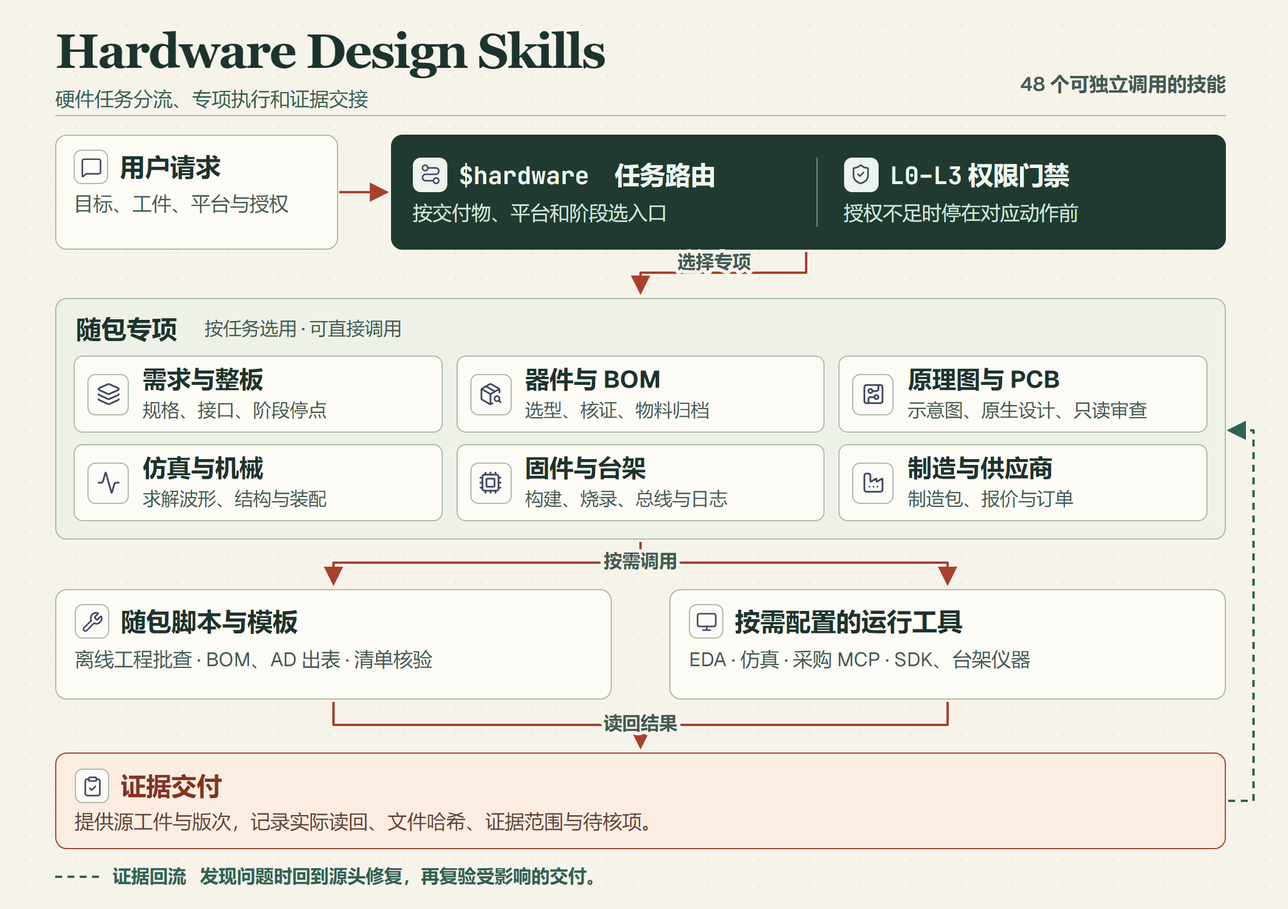
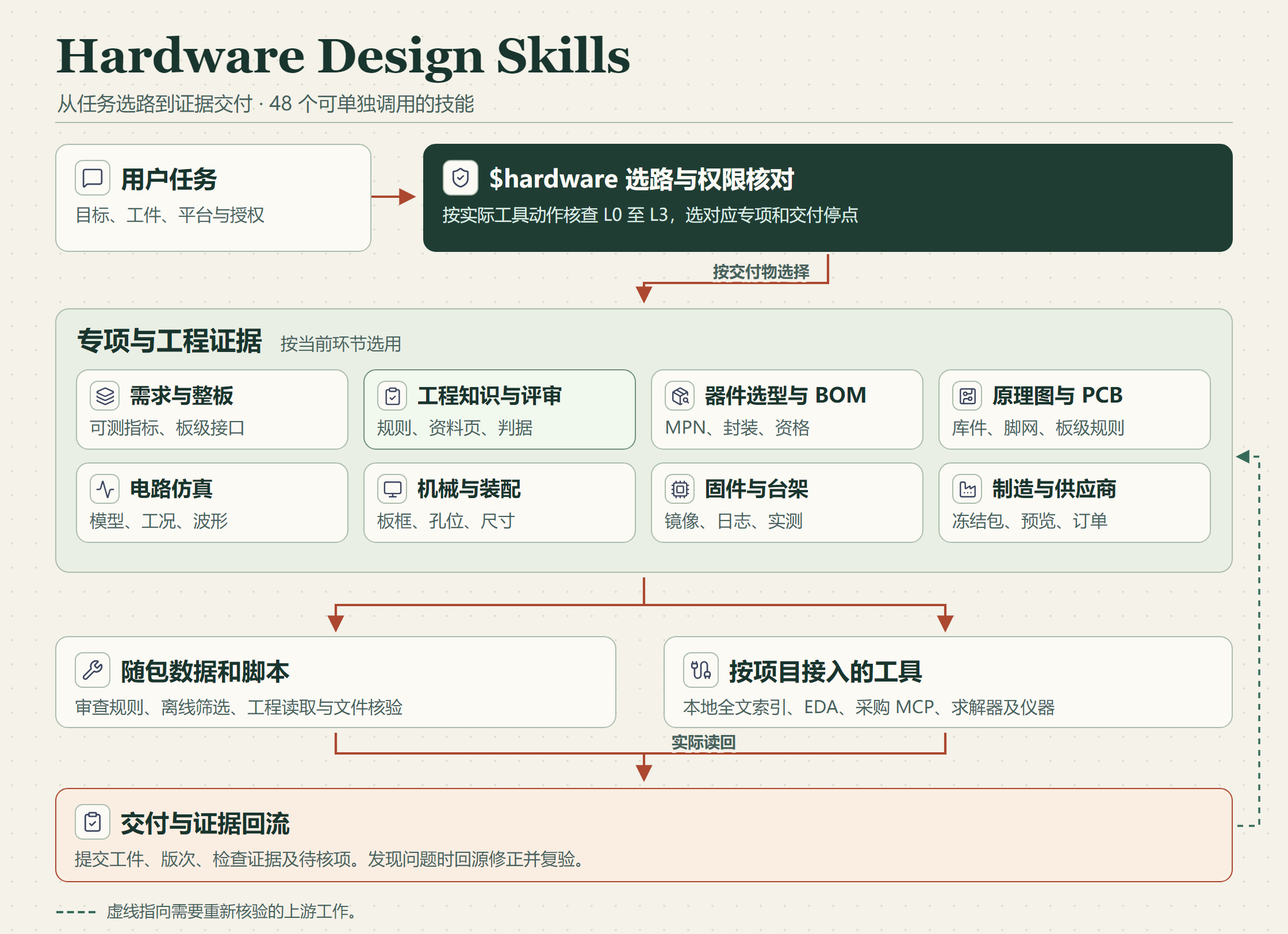
重写使用说明并补全硬件模块架构图

Changed region(s): [[0.0312, 0.031, 0.9688, 0.8373], [0.0625, 0.8373, 0.9375, 0.9924]]

diff --git a/README.md b/README.md
@@ -1,127 +1,102 @@
 # Hardware Design Skills
 
-**在 Codex 里画电路图、查器件、审查 EDA 工程，或从整板需求推进到制造和台架验证。** 本仓库随包提供 **48 个可单独调用的技能**，包括对应的脚本、模板和参考资料。用 `$hardware` 让助手按任务选择入口，也可以直接调用专项。
+在 Codex 里查器件、画电路图、审查 PCB，或把一块板从需求推进到制造和台架验证。这个技能包包含 48 个可单独调用的技能。知道要用哪个专项时可以直接点名，需要按工件或交付物选入口时用 `$hardware`。
 
-[下载最新版](https://github.com/zhr1008/hardware-design-skills/releases/latest) · [架构图](#架构与分工) · [模块关系](#各模块怎么配合) · [安装](#安装) · [48 项技能索引](docs/skill-catalog.md)
+[下载安装](#安装) · [从一个任务开始](#在-codex-里怎么用) · [架构图](#架构与分工) · [模块手册](docs/architecture-guide.md) · [48 项技能索引](docs/skill-catalog.md)
 
 ## 在 Codex 里怎么用
 
-| 你可以这样问 | 这次任务会交付什么 |
+| 可以这样问 | 这次会交付什么 |
 | --- | --- |
-| 「用 `$hardware` 画一张 RC 低通示意图，给 SVG。」 | 用 Schemdraw 生成图和 Python 源。需要 EDA 可编辑原理图时，在请求中点明 Altium、EasyEDA Pro 或 KiCad。 |
-| 「只读核对这个保存的 Altium 工程，按页列出器件数量。」 | 批查保存版 `.PrjPcb` 的原理图、板卡和文件状态，报告缺失项。若任务需要未保存状态，再核对现场读取的许可。 |
-| 「在我提供的本地手册索引里核对数据速率，给原页出处。」 | 对照版次查正文，按需回读 OCR 页，记录物理页和印刷页。 |
-| 「审查这路 ADC 前端，先列适用规则和需要验证的条件。」 | 用随包规则查采样建立、回冲、参考源等相关项，结合器件型号和工作条件形成核验依据。 |
-| 「给这批 0402 电阻按阻值、精度和功率选料，保留原位号。」 | 先按完整硬条件离线分组，再按组查询。对最终候选核对原厂和渠道证据，工程选型表默认是可逐格复制的 HTML。 |
-| 「优先用我这份标准阻容索引找满足规格的料，缺项时再查公开来源。」 | 按明确料号、封装和规格筛本地记录，把字段齐全的匹配与待核实项分开。需要时核对国内商品页及原厂资料。 |
-| 「这份 BOM 只转档案 CSV，已有料号原样保留。」 | 按模板映射，在 CSV 读回后结束。 |
-| 「读这两份 KiCad 原生 ERC 和 DRC 报告，看看有没有关掉的检查和未连项。」 | 汇总每份报告的错误、警告、排除项、可见的禁用规则及覆盖信息。 |
-| 「投板前核对这版 BOM 与贴装坐标，TP1 不贴。」 | 检查缺贴、多贴、重复位号以及坐标、板面和角度字段，记录两份输入的哈希。 |
-| 「核对这个冻结制造包，列出缺件和哈希不符的文件。」 | 本地检查版次、清单、尺寸和 SHA-256，返回通过项与缺口。 |
-| 「用这份限值核对台架数据，标出超限和缺项。」 | 对照板号、硬件版次、固件哈希和单位，逐项给出限值判定。 |
+| 「用 `$hardware` 画一张 RC 低通示意图，给 SVG。」 | Schemdraw 源码和 SVG。需要可编辑的工程原理图时，写明 Altium、EasyEDA Pro 或 KiCad。 |
+| 「只读核对这份保存的 Altium 工程，按页列出器件数。」 | 工程成员、保存态的器件明细和无法解析的文件。若还需要未保存的编辑内容，再申请现场读取。 |
+| 「审这路 ADC 前端，把需要验证的条件和资料页写出来。」 | 与器件和工况对应的规则、文档版次、物理页或印刷页，以及待计算或待测的项目。 |
+| 「优先在我给的标准阻容索引里找料，缺项再查公开来源。」 | 符合规格的候选、缺证据的字段，以及适用的商品页或原厂资料。为工程确认选用时，可从已核对数据生成 AD 选型表。 |
+| 「这份 BOM 只转档案 CSV，已有料号原样保留。」 | 按指定模板生成 CSV，读回核对列、位号、数量和料号。 |
+| 「看这份 KiCad DRC JSON，把未连接项、禁用规则和覆盖缺口列出来。」 | 已有报告的只读汇总，附报告来源、版本和 SHA-256。 |
+| 「投板前核对这版 BOM 和贴装坐标，TP1 不贴。」 | 缺贴、多贴、重复位号和坐标字段问题，以及两份输入的 SHA-256。 |
+| 「用这份限值判定台架结果，标出超限、缺项和单位错误。」 | 对照板号、硬件版次、固件哈希和单位的逐项核对结果。 |
 
-单项任务从对应入口开始。查一个料号、确认一个字段或出一张说明图，可以在目标产物交付后结束。跨原理图、PCB、固件或制造的任务才需要逐阶段交接。
+单项任务交付所问结果即结束。整板任务才需要把接口、版本和验证结果交给后续专项。
 
 ## 架构与分工
 
-![硬件技能包架构图。用户请求经硬件路由和权限检查进入专项，由随包脚本或独立运行工具执行，结果经读回后交付。](docs/architecture/hardware-design-skills.png)
+![硬件技能包总图。任务经过选路与权限检查，专项使用规则、已有工件和所需工具，读回证据并交付。](docs/architecture/hardware-design-skills.png)
 
-1. **路由和权限。** [`hardware`](skills/hardware/SKILL.md) 根据目标、工件、平台、实际参数和交付要求选择入口。它可独立使用，也可接在宿主的全局路由后。
-2. **专项技能。** 各专项定义要核的事实、执行顺序和验收证据。跨模块的设计按需调用几个专项，每个专项承接对应阶段。
-3. **运行工具。** 随包脚本处理确定性的离线读取、分组、转换和校验。外部 MCP、EDA、仿真器和设备工具承担实际在线查询、原生操作或现场取证，由使用者按需配置。
-4. **工程回读。** 结果记录工件版次、证据来源、实际通过的检查、缺项和授权停点。发现问题时，回到拥有权威源的专项修复，并重验依赖该源的结果。
+`$hardware` 根据目标、已有工件、EDA 平台和授权选入口。`hardware-solution` 在整板项目里协调供电、通信、机械和固件接口。`manage-pcba-program` 管理 PCBA 阶段、工件版本、放行结果和变更后的重验范围。需要做多专项的冻结判定或归因时，由 `hardware-design-review` 汇总各项工程证据。
 
-图标来自 [Lucide](https://lucide.dev/)。平台分流和交接规则见 [硬件路由矩阵](skills/hardware/references/route-matrix.md)。
+### 各模块怎么配合
 
-## 各模块怎么配合
-
-| 模块 | 主要技能与职责 | 输出及下一步 |
-| --- | --- | --- |
-| **需求、参考工程与整板协调** | [`plan-electronic-product`](skills/plan-electronic-product/SKILL.md) 把目标变成可测要求。[`hardware-project-library`](skills/hardware-project-library/SKILL.md) 盘点参考工程、版本和可复用范围。[`hardware-solution`](skills/hardware-solution/SKILL.md) 在整板项目中协调供电、通信、机械和固件接口。 | 把需求、接口和工况交给电路、PCB、固件与测试。[`manage-pcba-program`](skills/manage-pcba-program/SKILL.md) 按任务记录 PCBA 阶段、工件哈希、放行证据和变更失效。 |
-| **器件资料、选型和 BOM** | [`ee-datasheet-master`](skills/ee-datasheet-master/SKILL.md) 查原厂资料。[`component-sourcing`](skills/component-sourcing/SKILL.md) 查精确身份、封装、渠道和候选，按条件分组并复用已有结果。[`qualify-pcba-sourcing`](skills/qualify-pcba-sourcing/SKILL.md) 按位号核对脚位、封装、适用工况和供货风险。 | 把原厂依据、完整订购号和选用证据交给库与 BOM。[`bom-material-archive`](skills/bom-material-archive/SKILL.md) 负责模板转换和 CSV 读回，可单独完成。 |
-| **电路、原理图和工程库** | [`draw-schemdraw-circuit`](skills/draw-schemdraw-circuit/SKILL.md) 画说明图。[`design-and-review-circuit`](skills/design-and-review-circuit/SKILL.md) 做电气设计或审查。[`schematic-analyzer`](skills/schematic-analyzer/SKILL.md) 提取支持的连接证据。[`schematic-humanizer`](skills/schematic-humanizer/SKILL.md) 整理阅读顺序并复核脚网。 | 示意图可单独交付。工程任务把原理图、关键网约束和库映射交给板级实现。 |
-| **EDA、PCB 和综合评审** | [`altium-library`](skills/altium-library/SKILL.md) 处理库证据，[`altium-schematic-review`](skills/altium-schematic-review/SKILL.md) 和 [`altium-pcb-review`](skills/altium-pcb-review/SKILL.md) 审查对应工件。[`easyeda-agent`](skills/easyeda-agent/SKILL.md) 对接 EasyEDA Pro。[`pcb-layout-review`](skills/pcb-layout-review/SKILL.md) 处理板级布局与布线证据。 | 按实际工件回读保存态、板层、规则、关键网和机械约束。跨电路、BOM、PCB 或实测的放行与问题定位交 [`hardware-design-review`](skills/hardware-design-review/SKILL.md)。 |
-| **仿真、机械和板壳配合** | 仿真按任务选 SPICE、Multisim 或指定求解器，将模型、工况与量测绑定到版本。[`lab-hardware-cad`](skills/lab-hardware-cad/SKILL.md) 面向实验夹具和机械接口的参数化 CAD。 | 仿真交波形和量测指标，回到电路专项修正。机械交尺寸和适用的模型或制造文件，板框、开口和安装孔与 PCB 一起复核。 |
-| **固件、构建和台架** | [`embedded-firmware-design`](skills/embedded-firmware-design/SKILL.md) 把引脚、电平和时序约束落实到驱动和应用。[`embed-ai-tool`](skills/embed-ai-tool/SKILL.md) 帮助选择工具链。[`workflow`](skills/workflow/SKILL.md) 输出离线步骤预览，各构建、烧录和调试专项执行具体动作。 | 构建交镜像、版本和哈希。台架专项按许可采集串口、CAN、Modbus、逻辑分析仪和 VISA 证据，反馈给电路、固件或综合评审。 |
-| **制造包和供应商** | [`release-pcba-fabrication`](skills/release-pcba-fabrication/SKILL.md) 整理和复核本地制包。[`operate-jlcpcb-order`](skills/operate-jlcpcb-order/SKILL.md) 对应 PCB/PCBA 供应商流程。[`fictiv`](skills/fictiv/SKILL.md) 对应机械件的报价和制造。 | 冻结包交验收结果和缺项。按范围分别处理预览、上传、报价、下单与付款。预览发现问题时回到库、板或导出步骤重新核验。 |
-
-[48 项技能索引](docs/skill-catalog.md) 逐项列出了每个技能的入口、用途和交付停点。
-
-### 跨阶段交接的最小证据
-
-| 交给谁 | 随工件交接什么 |
+| 模块 | 接收什么，交付什么 |
 | --- | --- |
-| 器件 → 库、原理图、BOM | 完整订购 MPN、原厂资料版次和定位页、脚位到 Pad 的映射、关键工况、封装和渠道料号。 |
-| 原理图 → PCB | 同版工程和保存状态、网表或离线证据、适用 ERC 结论、关键网和电气约束、叠层与机械限制。 |
-| PCB 接口 → 固件与台架 | 板号和接口版次、引脚与电平、复位和时序约定、SDK 与构建配置、镜像摘要和测量时基。 |
-| 冻结板 → 制造包和供应商 | Gerber、钻孔、BOM、CPL、装配资料、工艺和坐标约定、冻结版次及文件哈希。 |
+| [任务路由与权限](docs/architecture-guide.md#任务路由与权限) | 根据工件状态和真实工具动作选入口。执行前检查许可，在用户要求的交付点停止。 |
+| [需求与整板协调](docs/architecture-guide.md#需求与整板协调) | 把目标和参考工程转成可测要求与接口约束，交电路、PCB、固件和测试。 |
+| [工程知识与综合评审](docs/architecture-guide.md#工程知识与综合评审) | 查适用规则和资料页，把判据与工程证据对齐，给出通过、待验证或阻塞项。 |
+| [器件选型与 BOM](docs/architecture-guide.md#器件选型与-bom) | 用规格、订购 MPN 和渠道编号核对器件。把原厂脚位、封装和资格结果交给库、BOM 或制造。 |
+| [原理图、工程库与 PCB](docs/architecture-guide.md#原理图工程库与-pcb) | 按 Altium、EasyEDA Pro 或 KiCad 选择入口。交付可编辑工件，或给现有工件的只读检查结果。 |
+| [电路仿真](docs/architecture-guide.md#电路仿真) | 对指定模型、输入和工况运行求解，给波形及量测。结果回到电路设计或评审。 |
+| [机械与装配](docs/architecture-guide.md#机械与装配) | 用板框、孔位和结构约束做板壳匹配，交 CAD 和尺寸证据，回传 PCB 修改项。 |
+| [固件与台架](docs/architecture-guide.md#固件与台架) | 接口约定进入固件构建，镜像绑定板号和测量结果。故障回到电路、固件或配置的源头排查。 |
+| [制造包与供应商](docs/architecture-guide.md#制造包与供应商) | 冻结同版 Gerber、钻孔、BOM、CPL 及清单。按具体授权处理外部预览、报价和订单。 |
 
-例如，贴装预览显示器件方向不符时，先保留预览证据，再检查封装方向、PCB 放置与 CPL 导出。修正权威源后，把受影响的旧装配结论标为失效，重新导出并核对新版预览。
+模块图给出每一步的输入、分支和交接点。按具体技能查职责时，可以直接打开 [48 项技能索引](docs/skill-catalog.md)。图标来自 [Lucide](https://lucide.dev/)。
 
-### 从传感器采集板到可交接的设计
+### 以一块传感器采集板为例
 
-1. **定义输入。** 需求专项明确供电、采集误差、通信接口和板框。整板协调把这些条件写入接口记录。
-2. **落实电路。** 器件专项核对候选型号和原厂脚位。电路专项建立连接和关键网约束，机械专项回传孔位及外壳尺寸。确有仿真目标时，把模型和波形用同一电路版次对应起来。
-3. **并行交接。** PCB 按网表、叠层和尺寸约束实现。固件按同一份引脚和电平约定构建。台架用板号和镜像摘要绑定波形、总线或启动日志。
-4. **按目标结束。** 用户只要设计评审时，交工件和问题清单。要求出包时，依据冻结版生成制造文件和哈希清单。供应商动作再按实际任务和授权范围执行。
+先定采集范围、误差、供电与通信接口。器件专项用原厂资料核对采样前端和主控，留下完整 MPN、封装与脚位依据。电路专项输出原理图和关键网约束。PCB 与固件使用同一份板级接口约定，机械模块同时回传板框、孔位和连接器装配空间。
+
+首板联调时，用板号、硬件版次和固件哈希绑定启动日志与测量结果。测量异常先确认是供电、前端、采样配置还是测试条件的问题，再回到相应专项。出包时绑定 PCB、BOM、CPL 和装配证据。如果贴装预览的方向有误，从库件、板上的放置或 CPL 导出查起。修正后重新生成并核对受影响的工件。
 
 ## 固定脚本与交付终点
 
-从仓库根目录运行：
+从仓库根目录运行。
 
 ```powershell
 python -X utf8 skills/hardware/scripts/hardware_tool.py list --json
 python -X utf8 skills/hardware/scripts/hardware_tool.py --plan bom-archive bom.csv --output out/archive.csv
+python -X utf8 skills/hardware/scripts/knowledge.py rules --domain PCB与EMC --summary
 ```
 
-| 子命令 | 做到哪里 |
+| 命令 | 输出 |
 | --- | --- |
-| `ad-saved` | 结构化读取保存的 `.PrjPcb`、`.SchDoc` 或 `.PcbDoc`，用 `altium-monkey` 解析。 |
-| `bom-archive` | 省略 `--output` 时给预检，有输出路径时生成档案 CSV 并读回。 |
-| `selection-export` | 按已核对的 JSON 生成 AD HTML，Excel 按需生成。后补 Excel 可用 `--xlsx-only`。 |
-| `sourcing-lock-check` | 检查资格表的字段、数量、费用和已记录证据的时效。当前库存与报价由相应渠道工具取得。 |
-| `kicad-report-check` | 读取现有 KiCad 9/10 ERC 或 DRC JSON，区分可见违规、排除项、禁用规则和报告覆盖。 |
-| `assembly-check` | 对照同版 BOM 与 CPL，核对位号、DNP、板面、坐标格式及单位声明。 |
-| `release-check` | 核对本地冻结包版本、清单与哈希，并报告缺失、变化或越界项目。 |
-| `bench-check` | 按指定限值校验本地台架测量，并区分超限、身份或单位错误与缺项。 |
+| `ad-saved` | 读取保存的 `.PrjPcb`、`.SchDoc` 或 `.PcbDoc`，给工程成员或对象数据。需要 `altium-monkey`。 |
+| `bom-archive` | 预检 BOM 及映射。指定 `--output` 时生成档案 CSV 并读回。 |
+| `selection-export` | 从已核对 JSON 生成 AD HTML 或按需生成 Excel。补 Excel 可用 `--xlsx-only`。 |
+| `sourcing-lock-check` | 核对资格表字段、数量、费用及已记录证据的时效。 |
+| `kicad-report-check` | 读取现有 KiCad 9/10 ERC 或 DRC JSON，列出违规、排除、禁用规则与覆盖范围。 |
+| `assembly-check` | 对照同版 BOM 与 CPL，核对位号、DNP、板面、坐标格式和单位。 |
+| `release-check` | 校验冻结制造包清单、版次、尺寸及 SHA-256。 |
+| `bench-check` | 按输入限值核验台架测量，标出超限、记录无效与缺项。 |
 
-器件批查单独提供 `batch_lookup.py`、`plan_selection_groups.py` 和固定出表脚本。根路由按任务选择入口，已有报告可以只补缺项。固件预览可查看计划中已给定和仍需补齐的信息。 [固定命令参数](skills/hardware/references/local-tools.md) · [器件批查与续跑](skills/component-sourcing/references/batch-lookup.md) · [器件与 BOM 分级](skills/component-sourcing/references/selection-depth.md)
-
-已有证据时，可独立运行每一项检查。从设计推进到制造时，先读 ERC/DRC 与工程状态，再核对 BOM/CPL 和独立 CAM 证据，最后校验冻结包。制成样机后，把测量绑到实际板号与固件，再按限值核对。需要原生导出、独立 CAM、虚拟固件回归或现场测试时，再按阶段选择已有外部工具。 [可选工具与接入点](docs/backends.md)
-
-指定本地 OCR 数据目录后，`ocr_books.py` 可按书查看覆盖、查同页词和读回单页。`pack_mineru_book.py` 可将已有 MinerU Middle JSON 转为索引并按原件版本补页。工程资料留在使用者管理的数据目录。 [逐页 OCR 用法](skills/hardware/references/ocr-books.md)
-
-`knowledge.py rules` 查询随包的 96 条审查规则和来源页码，覆盖 PCB/EMC、模拟、电源、采样、接口、标准、无源器件、验证与热设计。带 `--library` 可接入本机全文索引，查资料、搜索章节及读取原页文字。公开包内的规则与书目可直接离线查询。 [规则与证据流程](skills/hardware/references/design-review-basis.md) · [知识库用法](skills/hardware/references/engineering-knowledge.md)
-
-指定本地标准阻容索引后，`query_passive_index.py` 可按 C 号、完整料号或结构化规格筛选。查当前供货、更新证据或核对 CAD 库件时，再走相应入口。 [器件查询与回退](skills/component-sourcing/references/sourcing-queries.md)
+`knowledge.py` 可离线查随包的 96 条审查规则。带 `--library` 时可读用户的全文索引，查题录、正文和页标。`ocr_books.py` 用于已整理的逐页 OCR，`pack_mineru_book.py` 可从现有 Middle JSON 建索引。器件专项另有批量查料、等条件分组和本地阻容筛选脚本。 [固定命令用法](skills/hardware/references/local-tools.md) · [知识库用法](skills/hardware/references/engineering-knowledge.md) · [器件批查与续跑](skills/component-sourcing/references/batch-lookup.md)
 
 ## 权限怎么划分
 
 | 级别 | 典型动作 |
 | --- | --- |
-| **L0 离线读取** | 读保存版工程、库、报告和已有数据。 |
-| **L1 定向只读** | 读已授权的活动文档或查公开料价。保存版证据不足、需要转现场时先申请。 |
-| **L2 有界本地动作** | 指定副本写入、生成本地工件、构建、后台仿真，以及保护源文件的非模态编译。 |
-| **L3 原工程、前台、设备与外发** | 原工程写入、模态 DRC、桌面操作、烧录、主动发帧、仪器输出、文件上传、下单和付款。按具体动作先核授权。 |
+| L0 离线读取 | 读保存版工程、库、报告和本地测量数据。 |
+| L1 定向只读 | 读已获准的活动文档，或查询公开料价。审查保存态时，转到活动工程需要单独核对许可。 |
+| L2 有界本地操作 | 写指定副本、生成本地工件、构建、后台仿真，或不保存设计源的非模态编译。 |
+| L3 原工程、前台、设备与外发 | 原工程写入、模态 DRC、桌面操作、烧录、主动发帧、仪器输出、上传、下单和付款。 |
 
-等级由实际工具和参数决定。Altium 的离线读、现场桥接和界面操作分别核对权限。模型及工程文件默认在本机处理，需要外发时单独核准接收方和范围。 [权限门禁](skills/hardware/references/permission-gates.md)
+一次调用的等级取其中影响最大的动作。Altium 从离线读取升级到现场桥接，再升级到桌面操作时，分别核对授权。工程和 3D 文件默认留在本机，外发需要针对文件和接收方批准。 [权限细则](skills/hardware/references/permission-gates.md)
 
 ## 安装
 
-下载并解压 [最新技能包](https://github.com/zhr1008/hardware-design-skills/releases/latest)，或检出仓库。用 Python 3.11 或更新版本，在仓库根目录运行：
+下载并解压 [最新技能包](https://github.com/zhr1008/hardware-design-skills/releases/latest)，或检出仓库。用 Python 3.11 或更新版本在仓库根目录运行。
 
 ```powershell
 python -X utf8 scripts/install_skills.py --dry-run
 python -X utf8 scripts/install_skills.py
 ```
 
-默认目标为 `~/.agents/skills`，用 `--target` 可指定客户端实际读取的技能目录。也可以手动复制 `skills/` 下的平级技能目录。预检会标出同名冲突并保留已有内容，内容相同的技能会跳过。重新打开技能会话后可用 `$hardware`。
+默认安装到 `~/.agents/skills`。`--target` 可指定客户端实际读取的技能目录，也可以手动复制 `skills/` 下的平级目录。预检会列出同名冲突，已有内容相同的技能会跳过。重新打开技能会话后可用 `$hardware`。
 
-安装包含技能、脚本和模板。Schemdraw、Altium 文件解析器、商用 EDA、仿真软件、连接器和设备运行环境按实际任务配置。仓库内的 `component-sourcing` 是随包技能，目录查询和供应商接口由独立的 Component Sourcing MCP 提供。 [运行依赖](docs/backends.md) · [Component Sourcing MCP](https://github.com/zhr1008/component-sourcing-mcp)
+技能、脚本和模板随包安装。Altium、EasyEDA、KiCad、SPICE、固件工具链和设备运行环境按项目配置。在线查料可接独立的 Component Sourcing MCP。自有知识、OCR 和工程文件通过使用者指定的本机路径接入。 [运行依赖](docs/backends.md) · [Component Sourcing MCP](https://github.com/zhr1008/component-sourcing-mcp)
 
 ## 验证与许可
 
-仓库的 Windows 和 Linux 检查覆盖技能元数据、相对链接、Python 语法、离线安装、固定 CLI 和发布内容检查。仓库校验的 YAML 依赖仅供开发及 CI 使用。原生 EDA、供应商、终端设备和实际制造按本次运行留存证据。可运行以下命令。
+Windows 和 Linux CI 检查技能元数据、相对链接、Python 语法、离线安装、固定工具和可发布内容。项目的原生 EDA、供应商和实体台架结果以实际工程的运行记录为准。
 
 ```powershell
 python -X utf8 -m pip install -r requirements-dev.txt
@@ -130,4 +105,4 @@ python -X utf8 scripts/check_publication.py --tree HEAD
 python -X utf8 -m unittest discover -s tests
 ```
 
-自有内容采用 [MIT](LICENSE)。随包第三方文件保留各自版权与许可。 [来源与许可](THIRD_PARTY_NOTICES.md)
+自有内容采用 [MIT](LICENSE)。随包第三方文件保留各自版权和许可。 [来源与许可](THIRD_PARTY_NOTICES.md)

diff --git a/docs/architecture-guide.md b/docs/architecture-guide.md
@@ -1,0 +1,156 @@
+# 硬件技能包模块手册
+
+[总图](../README.md#架构与分工) · [技能索引](skill-catalog.md) · [可选工具](backends.md)
+
+从任务当前所在的环节开始。例如，有一份保存的 PCB 和 DRC 报告时，直接读板和报告即可。跨阶段时，把交付物和能核对它的版本、工况及出处一同交给接手专项。
+
+[路由](#任务路由与权限) · [需求](#需求与整板协调) · [知识库](#工程知识与综合评审) · [选料](#器件选型与-bom) · [EDA](#原理图工程库与-pcb) · [仿真](#电路仿真) · [机械](#机械与装配) · [固件与台架](#固件与台架) · [制包](#制造包与供应商) · [交接证据](#跨模块交接)
+
+## 任务路由与权限
+
+```mermaid
+flowchart TD
+  A["用户要求<br/>目标、工件、平台、交付物"] --> B["$hardware<br/>确认工程状态并选专项"]
+  B --> C{"本次动作在授权内？"}
+  C -->|"是"| D["运行选中的脚本或工具"]
+  C -->|"需要新许可"| E["先交已获得的证据<br/>说明拟增动作与影响"]
+  E -->|"用户批准该动作"| D
+  D --> F["读回结果<br/>确认达到当前交付点"]
+```
+
+同名技能先核对用户指定的来源和项目约定。然后根据工件和目标选择入口。例如，有保存的 Altium 工程且只要求审查时，先读取离线文件。离线找不到编译后的网络或未保存状态时，说明缺哪项，再申请该工程的只读桥接。用户明确要求查看当前打开的工程时，这个请求已覆盖相应的 L1 定向读取。进一步打开桌面界面、跑模态检查或修改工件时，按实际动作单独核对许可。
+
+脚本用于格式和输入明确的重复工作。现场桥接、供应商接口、EDA 程序和仪器依赖本机配置。需要前台操作或外发时，具体到窗口、工件、命令或接收方。工具读回可能同时出现结果和受限项，分别记入交付。 [权限细则](../skills/hardware/references/permission-gates.md) · [路由矩阵](../skills/hardware/references/route-matrix.md)
+
+## 需求与整板协调
+
+```mermaid
+flowchart TD
+  A["用途、环境和验收条件"] --> B["需求与参考工程<br/>明确可测指标和可复用范围"]
+  B --> C["整板接口约定<br/>供电、引脚、电平、时序、尺寸"]
+  C --> D["电路、PCB、固件和台架"]
+  D --> E["PCBA 阶段记录<br/>工件版次、哈希与验收证据"]
+  E -. "接口或版次改变" .-> C
+```
+
+`plan-electronic-product` 明确可测的目标和工况。`hardware-project-library` 盘点已有工件、版次和可用的参考证据。例如，一套参考板可提供连接器尺寸和供电拓扑，实际项目所需的电流、保护和 EMC 条件仍要比较。系统设计由 `hardware-solution` 协调，涉及引脚、复位和电平的决定写进同一份板级接口约定。
+
+`manage-pcba-program` 用工件版次和哈希记录当前阶段、放行状态及未关闭问题。接口变更时，标出原理图、PCB、BOM、固件与测试中哪些旧结论需要复核。综合结论可以交 `hardware-design-review`。 [整板方案](../skills/hardware-solution/SKILL.md) · [PCBA 阶段管理](../skills/manage-pcba-program/SKILL.md)
+
+## 工程知识与综合评审
+
+```mermaid
+flowchart TD
+  A["项目对象与工况<br/>器件、拓扑、要求"] --> B["96 条审查规则<br/>按领域或规则编号筛选"]
+  B --> C["资料版次与页码<br/>本机索引或原件"]
+  C --> D["采用判据<br/>对应实际位号、网络或布局区域"]
+  D --> E["对照实际工程证据<br/>ERC、DRC、仿真、实测"]
+  E --> F["记录判定和缺项"]
+```
+
+例如核对 ADC 前端，先按采样速率、信号带宽和驱动拓扑选采样建立、回冲和基准误差等规则。回查适用的原厂手册及来源页，把规则中的条件换成当前电路的器件、负载与测试工况。判断依据要写清文档版次、PDF 物理页和已确认的印刷页。
+
+规则与书目随包提供，`knowledge.py rules` 可以直接查询。已有本机全文索引时用 `--library` 接入。扫描件可以通过逐页 OCR 找页，公式、图表及单位以原页核对。综合评审汇集各专项的证据，给出本版可关闭的问题和仍待取证的项目。 [设计审查规则](../skills/hardware/references/design-review-basis.md) · [工程知识库用法](../skills/hardware/references/engineering-knowledge.md)
+
+## 器件选型与 BOM
+
+```mermaid
+flowchart TD
+  A["精确 C 号、完整 MPN<br/>或电气与封装要求"] --> B["复用已核验证据<br/>按需筛本机阻容索引"]
+  B --> C{"候选和证据足够？"}
+  C -->|"有缺项"| D["查对应商品页或原厂资料<br/>实时采购数据按需查询"]
+  C -->|"足够"| E["核对身份、封装与用途"]
+  D --> E
+  E --> F["按任务交付<br/>定向答复、AD 选型表或 BOM"]
+```
+
+`ee-datasheet-master` 查原厂数据。`component-sourcing` 对照完整订购 MPN、渠道 C 号、封装与使用条件。标准阻容索引可先筛候选。同规格的位号可以先分组，按组查询并保留原位号。索引只覆盖已有证据，缺失的规格和实时库存、数量价由对应渠道核实。
+
+查资料或价格可以只答所问字段。确定工程选用时，可用同一份经核对的 JSON 导出 AD HTML，Excel 按需生成。物料档案转换交给 `bom-material-archive`，读回 CSV 后结束。制造前逐位号核资格时，用 `qualify-pcba-sourcing` 交付 `sourcing-lock.csv`，把替代料和封装风险交给电路、库和制造。 [查料与回退](../skills/component-sourcing/references/sourcing-queries.md) · [AD 表交付](../skills/component-sourcing/references/ad-selection-export.md)
+
+## 原理图、工程库与 PCB
+
+```mermaid
+flowchart TD
+  A{"需要哪种产物？"} -->|"示意图"| B["Schemdraw<br/>源码与 SVG"]
+  A -->|"原生工件或审查"| C["核对平台、工程与保存状态"]
+  C --> D["选 Altium、EasyEDA Pro 或 KiCad 入口"]
+  D --> E["核对符号、焊盘、脚网与约束"]
+  E --> F["同版 PCB 或检查记录<br/>交布局、固件或制包"]
+```
+
+画说明电路时用 `draw-schemdraw-circuit`。做可编辑的工程原理图时，由 `design-and-review-circuit` 按选定 EDA 执行。已有工程先核实文件类型、版本和保存状态。保存态的 Altium 原理图、PCB 与库分别走相应离线入口。EasyEDA Pro 对照其专业版工程和适配器。KiCad 有现成 ERC/DRC JSON 时用 `kicad-report-check` 读回，再根据具体任务决定是否需要运行原生检查。
+
+原理图交给 PCB 时带同版工程、关键网和布局约束，器件库证据须能解释引脚到焊盘的映射。布局收尾时比较实际连通、板层、几何和规则证据。需要跨平台迁移时，对照目标原生文件重新核脚网、封装和板级约束。 [EDA 平台分流](../skills/hardware/references/route-matrix.md#按工程平台选执行入口) · [PCB 布局与审查](../skills/pcb-layout-review/SKILL.md)
+
+## 电路仿真
+
+```mermaid
+flowchart TD
+  A["电路或网表、器件模型<br/>指定工况及量测目标"] --> B["核对求解器支持范围"]
+  B --> C["本机仿真<br/>使用已指定的运行入口"]
+  C --> D["保存波形、输入版次与量测条件"]
+  D --> E["与判据比较<br/>提交电路设计或评审"]
+  E -. "参数或模型待修" .-> A
+```
+
+电路专项先给定要回答的问题，例如稳态输出、启动瞬态或温度扫描。仿真按项目选择 SPICE、Multisim 或已配置的求解器。模型版本、网表、输入条件、量测定义和运行日志随输出一起保留。危险副作用按实际入口判断，例如桌面弹窗或改写原文件的工具操作。
+
+仿真输出要对应所依据的版本和工况。工程中需要实测的指标，留给相应台架验证。例如仿真显示跨温度的建立时间风险，可将采样配置、输入阶跃、负载和量测窗口交给台架复测。 [仿真与工具入口](backends.md) · [SPICE 权限](../skills/hardware/references/permission-gates.md#spice-与-solidworks-前台和外发许可)
+
+## 机械与装配
+
+```mermaid
+flowchart TD
+  A["板框、孔位、器件高度与工艺"] --> B["确定机械基准与装配空间"]
+  B --> C["本机 CAD<br/>夹具、外壳或装配模型"]
+  C --> D["干涉、尺寸和可达性核对"]
+  D --> E["交尺寸、STEP 或设计源"]
+  E -. "孔位、边界或开口变更" .-> A
+```
+
+先让板级与机械使用同一原点、单位和版本。需要核对的尺寸包括板边与安装孔、连接器的插拔空间、器件高度和结构公差。`lab-hardware-cad` 可承接实验夹具、支架和机械接口。可用的本机 CAD 依据项目配置选择，发给 PCB 的应是具体尺寸或约束。
+
+板框或安装孔变化时，同步更新电路板上的机械约束和装配检查。交付对应的设计源、尺寸证据和适用的 STEP 等格式。原始 3D 文件和几何数据优先在本机使用，发给外部供应商或服务时按本次动作与接收方申请。 [机械专项](../skills/lab-hardware-cad/SKILL.md) · [CAD 与外发许可](../skills/hardware/references/permission-gates.md#spice-与-solidworks-前台和外发许可)
+
+## 固件与台架
+
+```mermaid
+flowchart TD
+  A["板级接口、MCU 与 SDK"] --> B["固件设计和目标构建"]
+  B --> C["固件、符号与镜像哈希"]
+  C --> D["既有日志和波形<br/>或按授权取得现场数据"]
+  D --> E["按板号、版次和限值核对"]
+  E -. "故障定位与复测" .-> B
+```
+
+`embedded-firmware-design` 接收 PCB 的引脚、电平、复位、时序和硬件版次，落实到驱动、BSP 或应用。实际构建按项目选 Keil、IAR、ESP-IDF、CMake、Makefile 或 PlatformIO。`workflow` 可预览过程，各构建、烧录和调试专项按授权执行实际步骤。
+
+取得原始日志或波形后，记下板号、硬件版次、固件哈希、采样条件和单位。`bench-check` 对照限值与测量 CSV，区分超限、无效输入和缺项。已有串口、CAN、Modbus、逻辑分析或 VISA 记录可先离线看。需要烧录、主动发帧或驱动仪器输出时，核对具体设备、命令和许可。根据故障证据回到电路或固件源头修正。 [固件专项](../skills/embedded-firmware-design/SKILL.md) · [台架限值核对](../skills/hardware-design-review/references/bench-results.md)
+
+## 制造包与供应商
+
+```mermaid
+flowchart TD
+  A["拟冻结板卡与装配变体"] --> B["核 ERC、DRC 与独立 CAM"]
+  A --> C["核同版 BOM、CPL 和 DNP"]
+  B --> D["制造包与清单<br/>冻结版次及文件哈希"]
+  C --> D
+  D -->|"获得对应许可"| E["供应商预览、报价或下单"]
+  E -. "放置或导出问题" .-> A
+```
+
+`release-pcba-fabrication` 收集同版 Gerber、钻孔、BOM、CPL 和装配资料。独立 CAM 核几何与图层，`assembly-check` 核位号、DNP、板面、坐标和单位，之后由 `release-check` 核清单与文件。实际放置还需检查原点、底面变换、旋转和 Pin 1。
+
+给嘉立创或 Fictiv 交接时附冻结版本、文件哈希和用户确认的规格。外部预览、报价、下单和付款分别核对授权。如果预览显示问题，从相应封装、PCB 放置或导出设置修复，更新受影响的结论并重跑检查。 [制造包专项](../skills/release-pcba-fabrication/SKILL.md) · [装配预检](../skills/release-pcba-fabrication/references/assembly-check.md)
+
+## 跨模块交接
+
+| 交接 | 随工件保留的证据 |
+| --- | --- |
+| 器件交工程库、原理图或 BOM | 完整订购 MPN、渠道料号、原厂资料版次与定位页、脚位到焊盘的映射、关键工况和封装。 |
+| 原理图交 PCB | 同版工程的保存态、网表或离线连接证据、适用的 ERC 结论、关键网和电气约束、叠层及机械限制。 |
+| PCB 接口交固件与台架 | 板号与版次、引脚与电平、复位及时序、SDK 和构建配置、镜像摘要、测量时基。 |
+| 冻结板交制造及供应商 | Gerber、钻孔、BOM、CPL 和装配资料，附工艺、坐标约定、冻结版次及文件哈希。 |
+
+涉及多处原因的故障先交综合评审列假设。再用现有日志和波形，或在授权范围内通过台架、总线和仪器取证。数据分析确定影响范围后，交回电路或固件专项修正，按同一工况复测。 [交接契约与故障回流](../skills/hardware/references/route-matrix.md#跨专项移交与变更回流)
